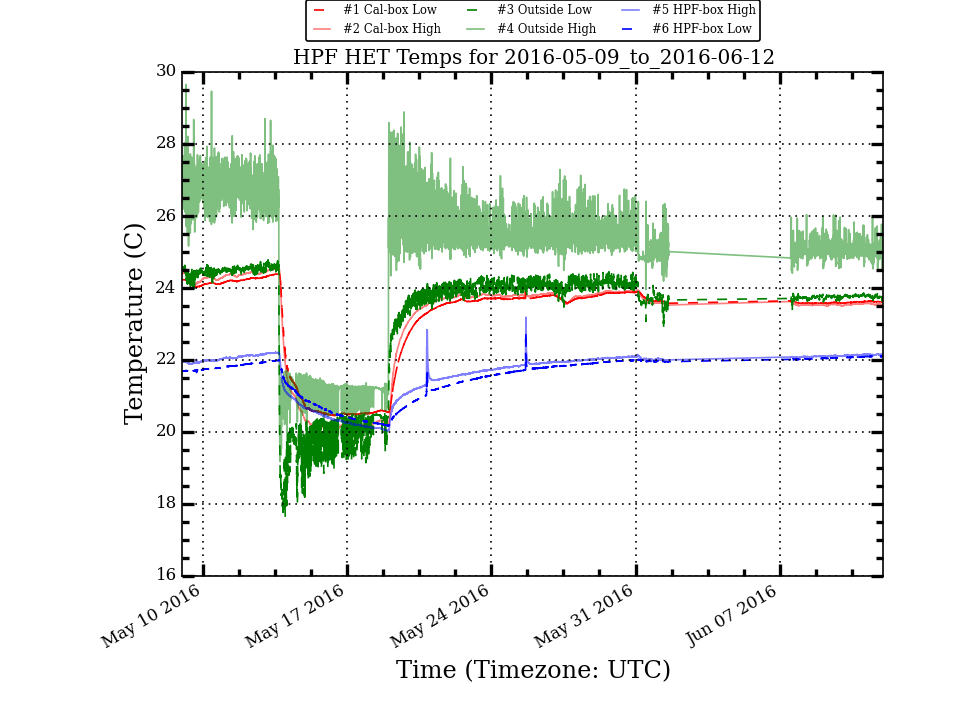
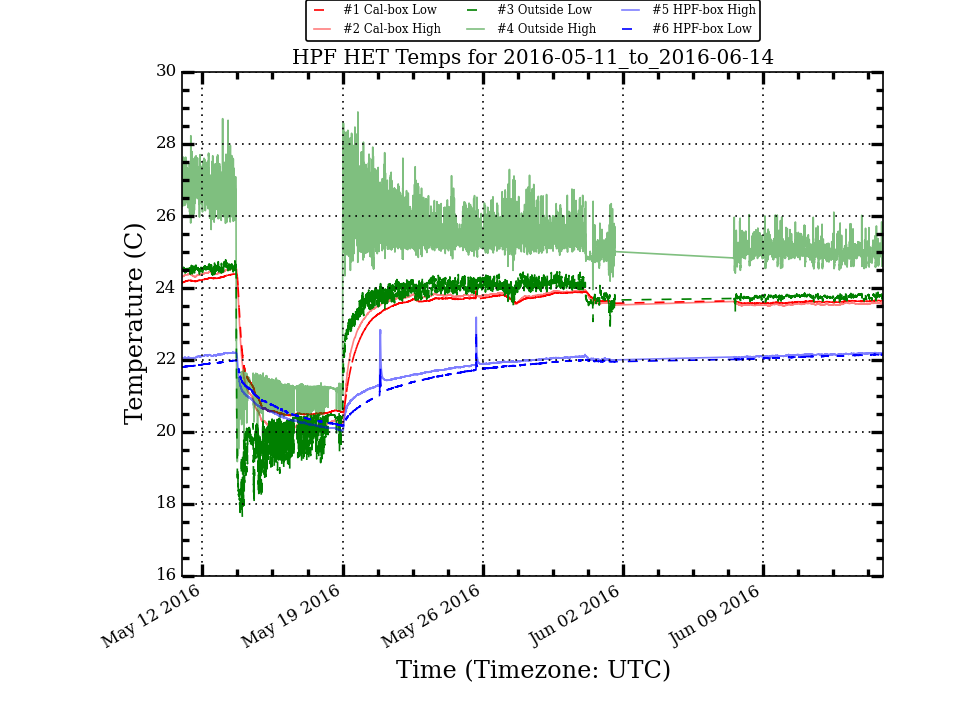
Update HPF Temp Plots

diff --git a/research/hpf_temps/plots/LakeShoreLogTotal_week_stats.html b/research/hpf_temps/plots/LakeShoreLogTotal_week_stats.html
@@ -10,56 +10,56 @@
  </TR>
  <TR>
   <TD>Cal_Low</TD>
-  <TD>23.601</TD>
-  <TD>0.022</TD>
-  <TD>23.597</TD>
-  <TD>23.654</TD>
+  <TD>23.612</TD>
+  <TD>0.024</TD>
+  <TD>23.613</TD>
+  <TD>23.653</TD>
   <TD>23.568</TD>
-  <TD>0.086</TD>
+  <TD>0.085</TD>
  </TR>
  <TR>
   <TD>Cal_High</TD>
-  <TD>23.543</TD>
-  <TD>0.025</TD>
-  <TD>23.538</TD>
-  <TD>23.639</TD>
+  <TD>23.549</TD>
+  <TD>0.022</TD>
+  <TD>23.547</TD>
+  <TD>23.608</TD>
   <TD>23.494</TD>
-  <TD>0.145</TD>
+  <TD>0.114</TD>
  </TR>
  <TR>
   <TD>Out_Low</TD>
-  <TD>23.735</TD>
-  <TD>0.082</TD>
-  <TD>23.750</TD>
-  <TD>23.911</TD>
-  <TD>22.831</TD>
-  <TD>1.080</TD>
+  <TD>23.754</TD>
+  <TD>0.042</TD>
+  <TD>23.756</TD>
+  <TD>23.885</TD>
+  <TD>23.608</TD>
+  <TD>0.277</TD>
  </TR>
  <TR>
   <TD>Out_High</TD>
-  <TD>24.992</TD>
-  <TD>0.234</TD>
   <TD>24.970</TD>
-  <TD>26.343</TD>
-  <TD>24.190</TD>
-  <TD>2.153</TD>
+  <TD>0.209</TD>
+  <TD>24.950</TD>
+  <TD>26.107</TD>
+  <TD>24.499</TD>
+  <TD>1.608</TD>
  </TR>
  <TR>
   <TD>HPF_High</TD>
-  <TD>22.104</TD>
-  <TD>0.044</TD>
-  <TD>22.109</TD>
-  <TD>22.166</TD>
-  <TD>21.979</TD>
-  <TD>0.187</TD>
+  <TD>22.143</TD>
+  <TD>0.032</TD>
+  <TD>22.148</TD>
+  <TD>22.205</TD>
+  <TD>22.073</TD>
+  <TD>0.132</TD>
  </TR>
  <TR>
   <TD>HPF_Low</TD>
-  <TD>22.048</TD>
-  <TD>0.042</TD>
-  <TD>22.055</TD>
-  <TD>22.115</TD>
-  <TD>21.946</TD>
-  <TD>0.169</TD>
+  <TD>22.092</TD>
+  <TD>0.038</TD>
+  <TD>22.097</TD>
+  <TD>22.155</TD>
+  <TD>22.016</TD>
+  <TD>0.139</TD>
  </TR>
 </TABLE>

diff --git a/research/hpf_temps/plots/LakeShoreLogTotal_month_stats.html b/research/hpf_temps/plots/LakeShoreLogTotal_month_stats.html
@@ -10,54 +10,54 @@
  </TR>
  <TR>
   <TD>Cal_Low</TD>
-  <TD>23.142</TD>
-  <TD>1.243</TD>
-  <TD>23.636</TD>
+  <TD>23.125</TD>
+  <TD>1.205</TD>
+  <TD>23.630</TD>
   <TD>24.396</TD>
   <TD>20.460</TD>
   <TD>3.936</TD>
  </TR>
  <TR>
   <TD>Cal_High</TD>
-  <TD>23.140</TD>
-  <TD>1.387</TD>
-  <TD>23.697</TD>
+  <TD>23.107</TD>
+  <TD>1.338</TD>
+  <TD>23.581</TD>
   <TD>24.532</TD>
   <TD>20.090</TD>
   <TD>4.442</TD>
  </TR>
  <TR>
   <TD>Out_Low</TD>
-  <TD>23.222</TD>
-  <TD>1.653</TD>
-  <TD>23.852</TD>
+  <TD>23.193</TD>
+  <TD>1.602</TD>
+  <TD>23.784</TD>
   <TD>24.796</TD>
   <TD>17.638</TD>
   <TD>7.158</TD>
  </TR>
  <TR>
   <TD>Out_High</TD>
-  <TD>24.817</TD>
-  <TD>1.918</TD>
-  <TD>25.323</TD>
-  <TD>29.654</TD>
+  <TD>24.690</TD>
+  <TD>1.806</TD>
+  <TD>25.187</TD>
+  <TD>28.890</TD>
   <TD>19.178</TD>
-  <TD>10.476</TD>
+  <TD>9.712</TD>
  </TR>
  <TR>
   <TD>HPF_High</TD>
-  <TD>21.619</TD>
-  <TD>0.650</TD>
-  <TD>21.948</TD>
+  <TD>21.652</TD>
+  <TD>0.656</TD>
+  <TD>21.990</TD>
   <TD>23.188</TD>
   <TD>20.039</TD>
   <TD>3.149</TD>
  </TR>
  <TR>
   <TD>HPF_Low</TD>
-  <TD>21.524</TD>
-  <TD>0.575</TD>
-  <TD>21.774</TD>
+  <TD>21.572</TD>
+  <TD>0.592</TD>
+  <TD>21.844</TD>
   <TD>22.818</TD>
   <TD>20.173</TD>
   <TD>2.645</TD>
